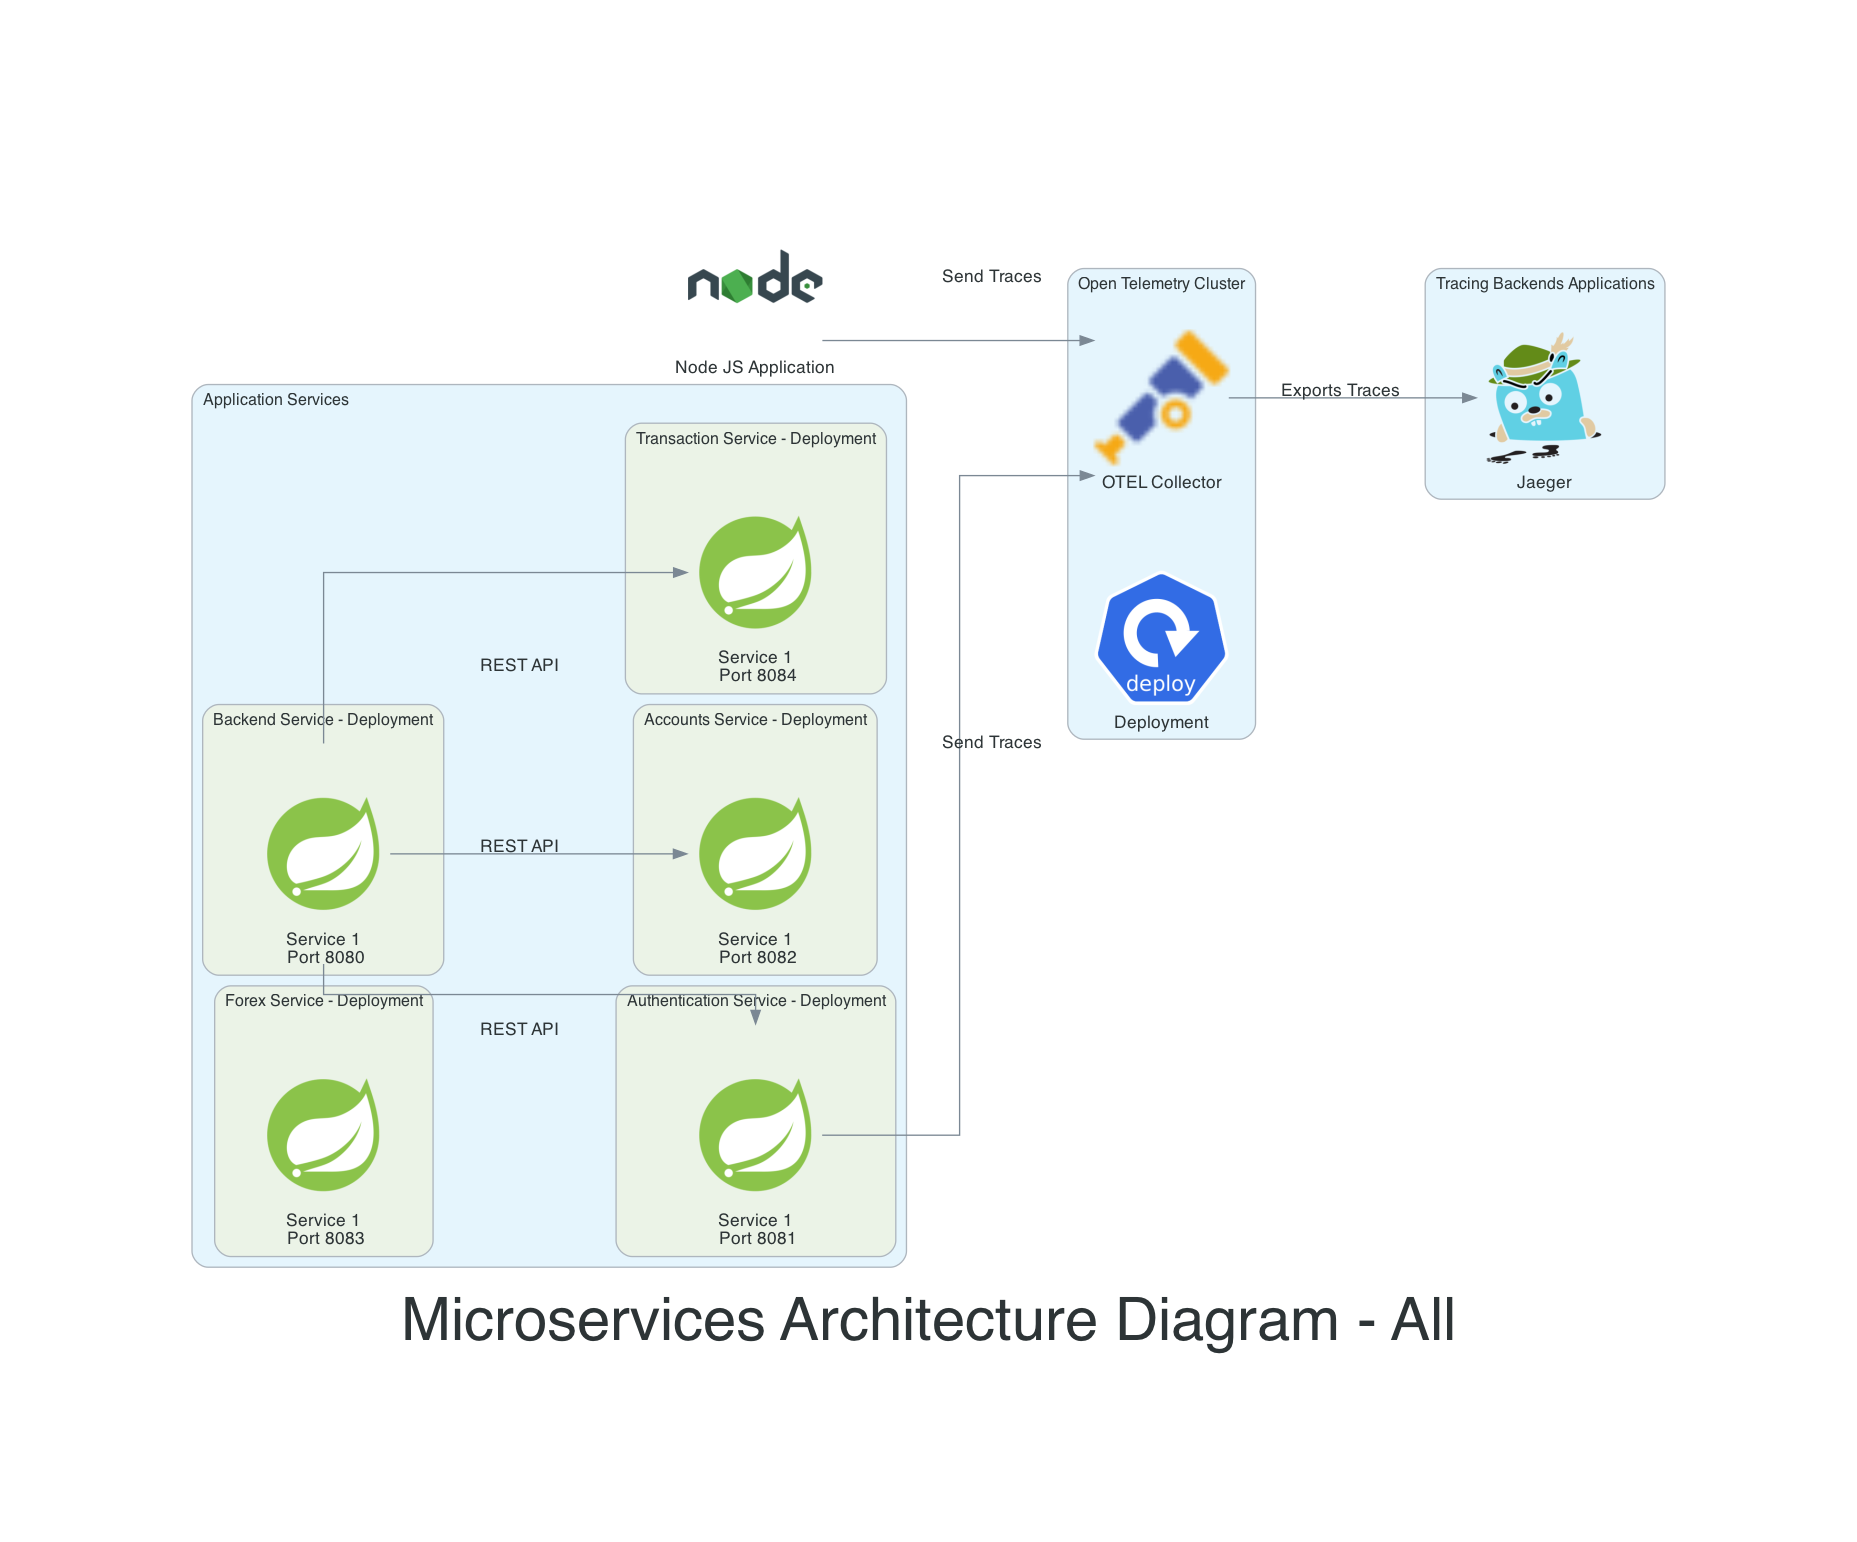
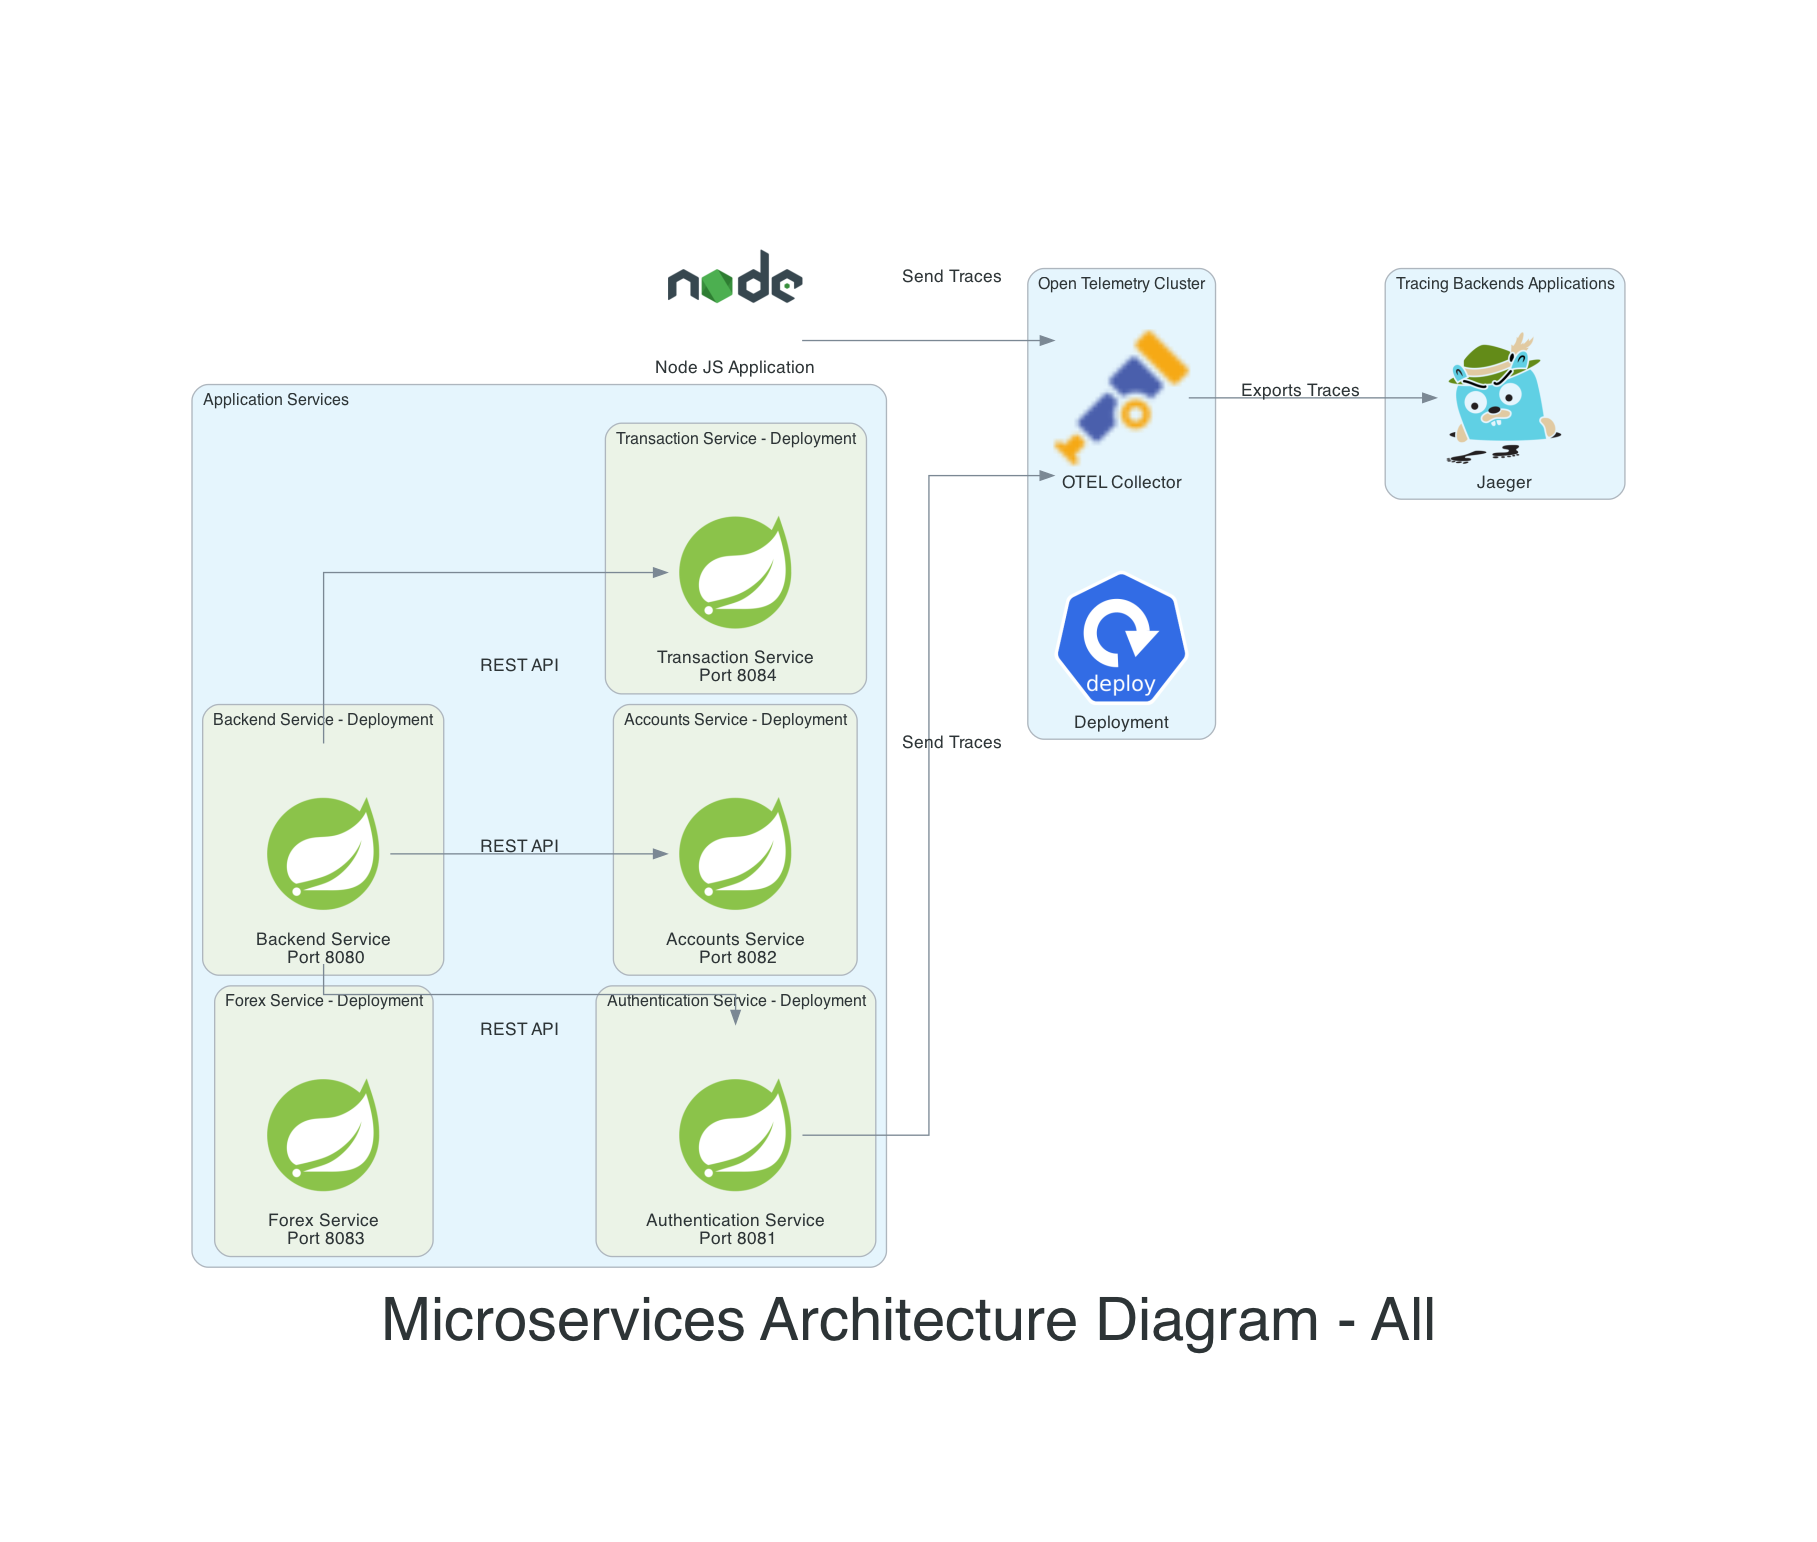
Update Documentaiton

diff --git a/documentation/daac/application_architecture/application-architecture-k8s.py b/documentation/daac/application_architecture/application-architecture-k8s.py
@@ -26,7 +26,7 @@ class ApplicationDeployment:
         with Cluster(cluster_name):
             with Cluster("Container / Pod"):
                 self.otel_jar = otel_agent_jar = Custom("Otel Jar", "../images/jarfile.png")
-                service = Spring("Service 1\n Port " + self.port)
+                service = Spring(self.service_name + "\n Port " + self.port)
                 otel_agent_jar = self.otel_jar
                 pod_backend = [otel_agent_jar, service]
                 service << Edge(label="Auto Instrument") << self.otel_jar

diff --git a/documentation/daac/application_architecture/application-architecture.py b/documentation/daac/application_architecture/application-architecture.py
@@ -26,7 +26,7 @@ class ApplicationDeployment:
         with Cluster(cluster_name):
             with Cluster("Container / Pod"):
                 self.otel_jar = otel_agent_jar = Custom("Otel Jar", "../images/jarfile.png")
-                service = Spring("Service 1\n Port " + self.port)
+                service = Spring(self.service_name + "\n Port " + self.port)
                 otel_agent_jar = self.otel_jar
                 pod_backend = [otel_agent_jar, service]
                 service << Edge(label="Auto Instrument") << self.otel_jar

diff --git a/documentation/daac/application_architecture/application-architecture-all-service.py b/documentation/daac/application_architecture/application-architecture-all-service.py
@@ -26,7 +26,7 @@ class ApplicationDeployment:
         with Cluster(cluster_name):
             # with Cluster("Container / Pod"):
             # self.otel_jar = otel_agent_jar = Custom("Otel Jar", "../images/jarfile.png")
-            service = Spring("Service 1\n Port " + self.port)
+            service = Spring(self.service_name + "\n Port " + self.port)
             # otel_agent_jar = self.otel_jar
             # pod_backend = [otel_agent_jar, service]
             # service << Edge(label="Auto Instrument") << self.otel_jar
